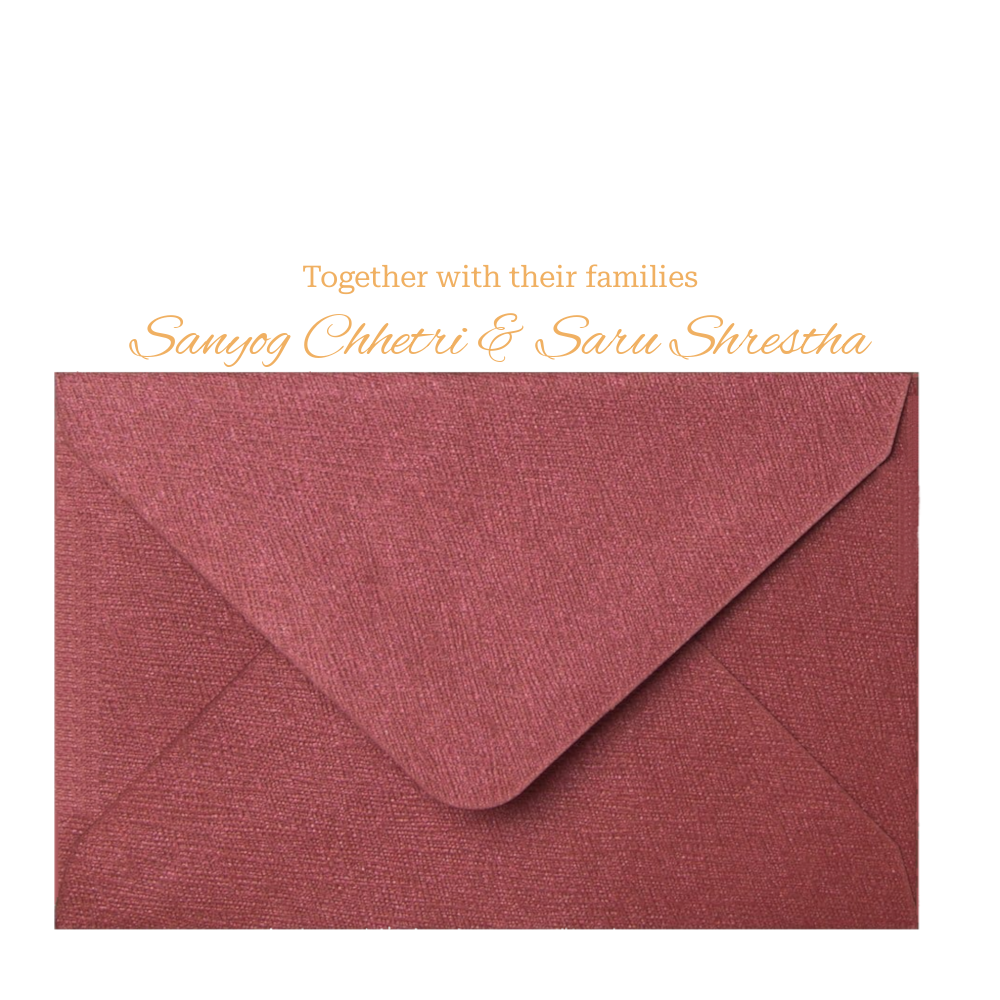
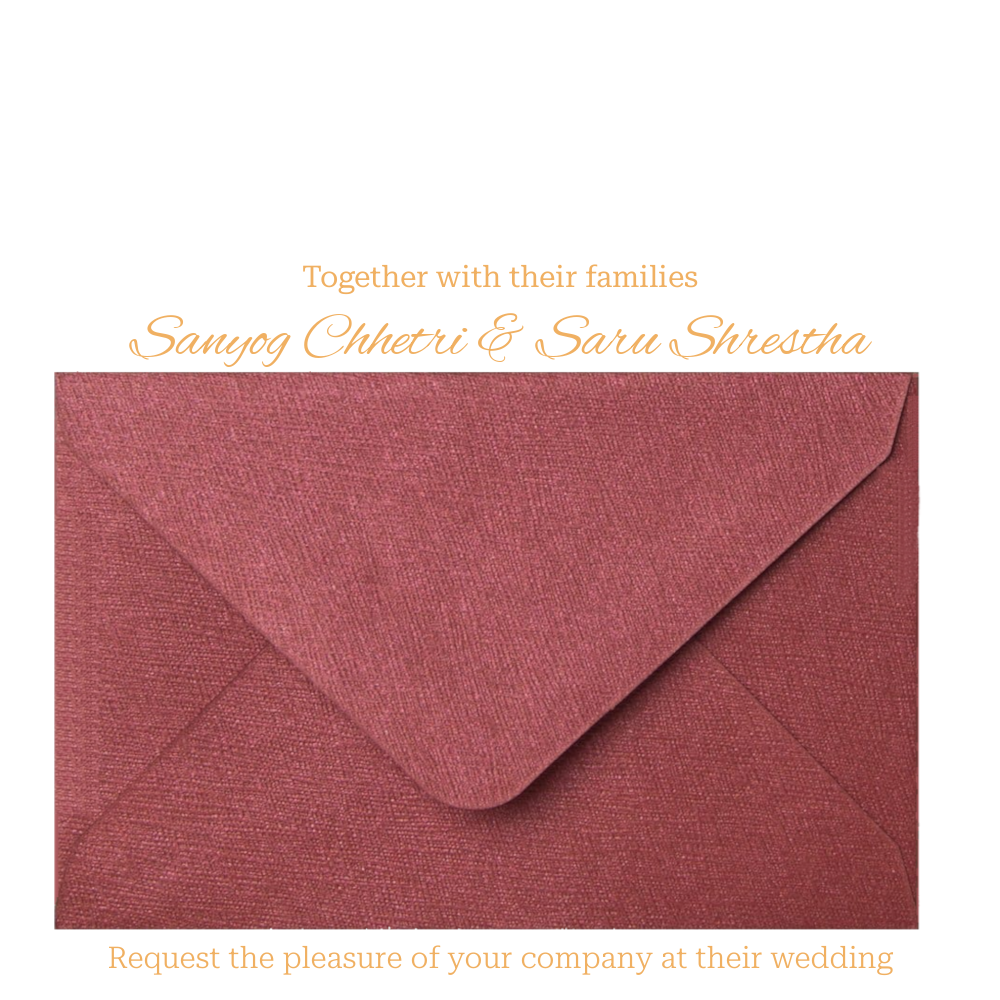
updated alot

diff --git a/src/routes/+page.svelte b/src/routes/+page.svelte
@@ -80,7 +80,7 @@
         >
         <img src="/img/compass.png" alt="Ticket" class="w-full h-auto object-fit max-h-[80vh]" />
         </div>
-        <div class="relative p-4 rounded-lg pointer-events-auto  w-40 sm:w-80 md:w-100 -rotate-5  rotate-80 transition-transform duration-300 -translate-x-4 sm:translate-x-7 md:-translate-x-1 cursor-pointer pointer-events-auto"
+        <div class="relative p-4 rounded-lg pointer-events-auto z-10 w-40 sm:w-80 md:w-100 -rotate-5  rotate-80 transition-transform duration-300 -translate-x-4 sm:translate-x-7 md:-translate-x-1 cursor-pointer pointer-events-auto"
         on:mouseenter={() => hoverticket = true}
         on:mouseleave={() => hoverticket = false}
         on:click={handleRSVP}
@@ -127,14 +127,14 @@
       Sanyog Chhetri & Saru Shrestha
     </p> -->
   <!-- </div> -->
-  <div class="absolute inset-0 flex flex-col justify-end items-center text-center px-4 pt-[clamp(0.1rem,7vw,15vw)] pointer-events-none">
+  <!-- <div class="absolute inset-0 flex flex-col justify-end items-center text-center px-4 pt-[clamp(0.1rem,7vw,15vw)] pointer-events-none">
    <p class="mt-4 font-robo font-thin text-[clamp(1rem,2vw,1.3rem)] text-[rgb(242,176,98)] transition-opacity duration-500"
        class:opacity-0={isOpen}
        class:opacity-100={!isOpen}
        in:fade={{ duration: 600 }}>
       Invite you to celebrate their wedding
     </p>
-    </div>
+    </div> -->
 </div>
 
 <!-- <div class="relative z-10  w-full h-full flex items-center justify-center">

diff --git a/src/routes/Navigation/+page.svelte b/src/routes/Navigation/+page.svelte
@@ -1,14 +1,14 @@
 <script lang="ts">
 </script>
 
-<div class="w-full max-w-4xl bg-rose-50 mx-auto p-6">
+<div class="w-full max-w-4xl bg-rose-50 rounded-lg mx-auto p-6">
 	<h1 class="text-[32px] md:text-[48px] font-alex text-[rgb(242,176,98)] mb-4 text-center">Wedding Venue</h1>
 	<p class="text-center text-[rgb(242,176,98)] mb-8">Join us in beautiful Basingstoke!</p>
 
 	<!-- Google Maps Embed -->
 	<div class="rounded-xl overflow-hidden shadow-lg mb-8">
 		<iframe
-			title="Wedding Venue - Basingstoke"
+			title="Wedding Venue - Warbrook House, Basingstoke"
 			width="100%"
 			height="500"
 			style="border:0"

diff --git a/src/routes/RSVP/+page.svelte b/src/routes/RSVP/+page.svelte
@@ -63,8 +63,8 @@
 	}
 </script>
 
-<div class="w-full max-w-2xl bg-rose-50 mx-auto p-6">
-	<h1 class="text-[32px] md:text-[48px] font-alex text-black mb-8 text-center">RSVP</h1>
+<div class="w-full max-w-2xl bg-rose-50 rounded-lg mx-auto p-6">
+	<h1 class="text-[32px] md:text-[48px] font-robo text-[rgb(242,176,98)] mb-8 text-center">RSVP</h1>
 
 	{#if submitted}
 		<div class="bg-green-100 border border-green-400 text-green-700 px-4 py-3 rounded-lg text-center mb-6">
